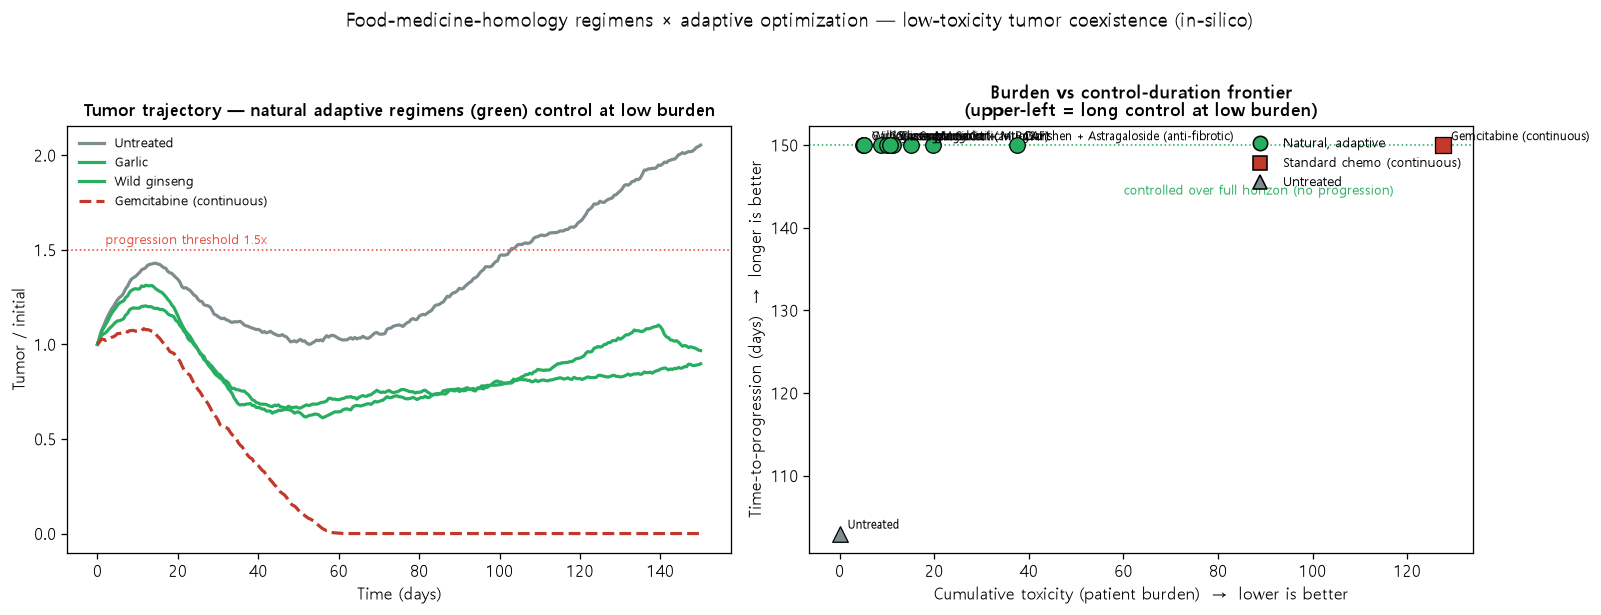
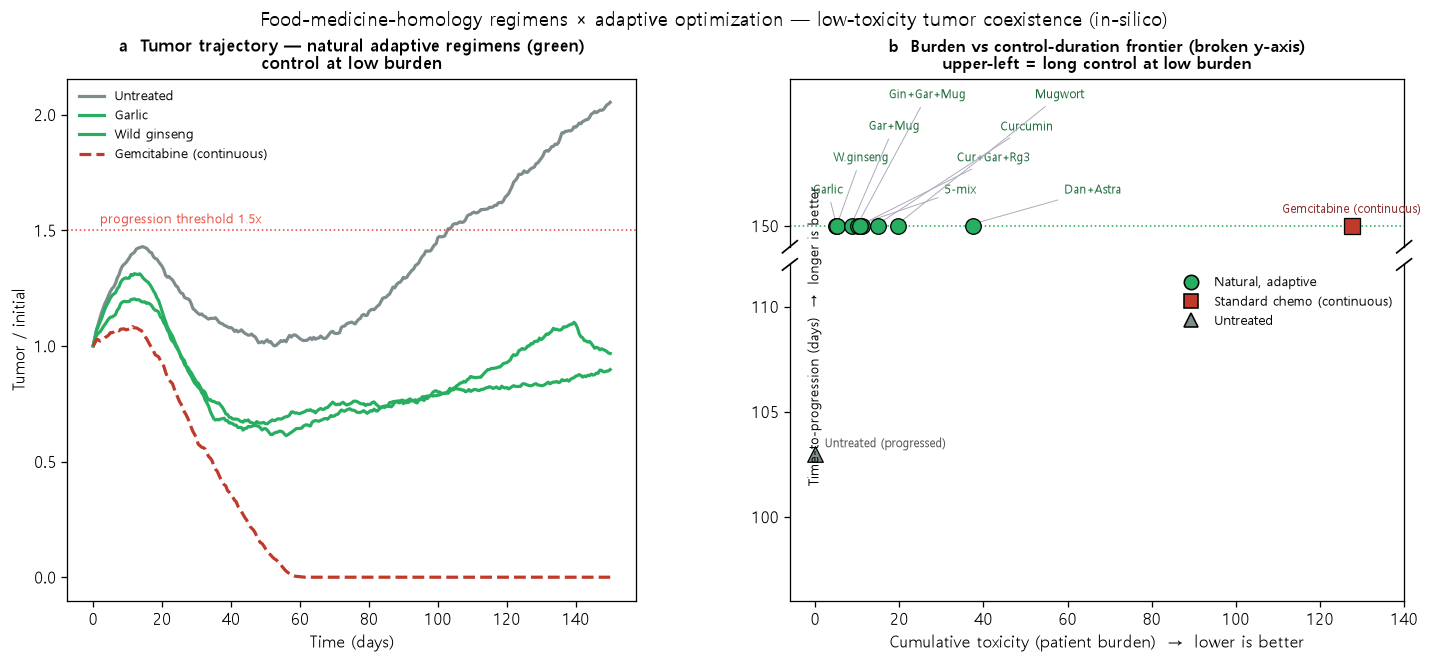
fig: redesign Fig 5 frontier with broken y-axis for readability
Panel B TTP-vs-toxicity points were all crammed at y=150 with overlapping
labels. Split into a broken y-axis (censored cluster ~150 vs Untreated ~103),
zoomed top band, abbreviated names on staggered leader lines, legend moved off
the data. Break marks are the standard diagonal symbol.

diff --git a/pipeline/optimize_natural.py b/pipeline/optimize_natural.py
@@ -89,9 +89,21 @@ def main():
     return results
 
 
+def _mk(typ):
+    return "o" if typ == "natural-adaptive" else ("s" if typ == "conventional" else "^")
+
+
 def _figure(results, n0):
-    fig, (axA, axB) = plt.subplots(1, 2, figsize=(14, 5.4))
-    # A: 대표 궤적 (무처치, 젬시타빈, 상위 자연물 2개)
+    from matplotlib import gridspec
+    from matplotlib.lines import Line2D
+    fig = plt.figure(figsize=(15, 5.9))
+    gs = gridspec.GridSpec(2, 2, width_ratios=[1, 1.08],
+                           height_ratios=[1.25, 2.5], hspace=0.07, wspace=0.26)
+    axA = fig.add_subplot(gs[:, 0])       # trajectory (spans both rows)
+    axT = fig.add_subplot(gs[0, 1])       # broken top: censored (TTP=150)
+    axB = fig.add_subplot(gs[1, 1], sharex=axT)   # broken bottom: Untreated
+
+    # ---- Panel A: representative trajectories ----
     nat = [r for r in results if r[1] == "natural-adaptive"]
     nat_sorted = sorted(nat, key=lambda r: -r[3]["control_score"])
     show = [r for r in results if r[0] == UNTREATED] + nat_sorted[:2] + \
@@ -103,26 +115,64 @@ def _figure(results, n0):
     axA.axhline(1.5, color="#E74C3C", ls=":", lw=1)
     axA.text(2, 1.53, "progression threshold 1.5x", fontsize=8, color="#E74C3C")
     axA.set_xlabel("Time (days)"); axA.set_ylabel("Tumor / initial")
-    axA.set_title("Tumor trajectory — natural adaptive regimens (green) control at low burden",
-                  fontsize=10.5, fontweight="bold")
+    axA.set_title("a  Tumor trajectory — natural adaptive regimens (green)\n"
+                  "control at low burden", fontsize=10.5, fontweight="bold")
     axA.legend(frameon=False, fontsize=8)
 
-    # B: 트레이드오프 프론티어 — TTP(통제 지속) vs 독성(부담).
+    # ---- Panel B: broken-axis frontier (top=censored cluster, bottom=Untreated) ----
     for name, typ, h, m, col in results:
-        mk = "o" if typ == "natural-adaptive" else ("s" if typ == "conventional" else "^")
-        axB.scatter(m["cum_toxicity"], m["ttp_days"], s=95, color=col,
-                    marker=mk, edgecolor="black", linewidth=0.8, zorder=3)
-        axB.annotate(name, (m["cum_toxicity"], m["ttp_days"]), fontsize=7.5,
-                     xytext=(5, 3), textcoords="offset points")
-    axB.axhline(DAYS, color="#27AE60", ls=":", lw=1)
-    axB.text(60, DAYS - 6, "controlled over full horizon (no progression)",
-             fontsize=8, color="#27AE60")
+        ax = axT if m["ttp_days"] >= DAYS - 1 else axB
+        ax.scatter(m["cum_toxicity"], m["ttp_days"], s=95, color=col,
+                   marker=_mk(typ), edgecolor="black", linewidth=0.8, zorder=4)
+    axT.set_ylim(149.4, 154.2); axB.set_ylim(96, 112)
+    axT.set_yticks([150]); axB.set_yticks([100, 105, 110])
+    axT.axhline(DAYS, color="#27AE60", ls=":", lw=1, zorder=1)
+
+    # staggered labels + leader lines for the censored natural cluster
+    SHORT = {"Garlic": "Garlic", "Wild ginseng": "W.ginseng",
+             "Garlic + Mugwort": "Gar+Mug",
+             "Ginseng + Garlic + Mugwort": "Gin+Gar+Mug",
+             "Curcumin + Garlic + Rg3": "Cur+Gar+Rg3",
+             "5-compound mix": "5-mix", "Curcumin": "Curcumin",
+             "Mugwort (anti-CAF)": "Mugwort",
+             "Danshen + Astragaloside (anti-fibrotic)": "Dan+Astra"}
+    nat_tox = sorted([r for r in results if r[3]["ttp_days"] >= DAYS - 1
+                      and r[1] == "natural-adaptive"],
+                     key=lambda r: r[3]["cum_toxicity"])
+    xslots = np.linspace(3, 66, len(nat_tox))
+    hts = [150.85, 151.75, 152.65, 153.55]
+    for i, (name, typ, h, m, col) in enumerate(nat_tox):
+        axT.annotate(SHORT.get(name, name), xy=(m["cum_toxicity"], 150.05),
+                     xytext=(xslots[i], hts[i % 4]), fontsize=7.3,
+                     ha="center", va="bottom", color="#1E6B3A",
+                     arrowprops=dict(arrowstyle="-", color="#AAB", lw=0.6))
+    for name, typ, h, m, col in results:      # gemcitabine + untreated
+        if typ == "conventional":
+            axT.annotate(name, xy=(m["cum_toxicity"], 150), xytext=(0, 8),
+                         textcoords="offset points", ha="center",
+                         fontsize=7.5, color="#8B2E2E")
+        elif typ == "none":
+            axB.annotate(f"{name} (progressed)", xy=(m["cum_toxicity"], m["ttp_days"]),
+                         xytext=(6, 4), textcoords="offset points",
+                         fontsize=7.5, color="#555")
+
+    # broken-axis diagonal marks
+    axT.spines["bottom"].set_visible(False); axB.spines["top"].set_visible(False)
+    axT.tick_params(bottom=False, labelbottom=False)
+    dd = .012
+    kw = dict(color="k", clip_on=False, lw=1.1)
+    axT.plot((-dd, +dd), (-dd * 3, +dd * 3), transform=axT.transAxes, **kw)
+    axT.plot((1 - dd, 1 + dd), (-dd * 3, +dd * 3), transform=axT.transAxes, **kw)
+    axB.plot((-dd, +dd), (1 - dd * 1.4, 1 + dd * 1.4), transform=axB.transAxes, **kw)
+    axB.plot((1 - dd, 1 + dd), (1 - dd * 1.4, 1 + dd * 1.4), transform=axB.transAxes, **kw)
+
+    axT.set_xlim(-6, 140); axB.set_xlim(-6, 140)
     axB.set_xlabel("Cumulative toxicity (patient burden)  →  lower is better")
-    axB.set_ylabel("Time-to-progression (days)  →  longer is better")
-    axB.set_title("Burden vs control-duration frontier\n"
-                  "(upper-left = long control at low burden)",
-                  fontsize=11, fontweight="bold")
-    from matplotlib.lines import Line2D
+    fig.text(0.558, 0.5, "Time-to-progression (days)  →  longer is better",
+             rotation=90, va="center", ha="center", fontsize=9)
+    axT.set_title("b  Burden vs control-duration frontier (broken y-axis)\n"
+                  "upper-left = long control at low burden", fontsize=10,
+                  fontweight="bold")
     axB.legend(handles=[
         Line2D([0], [0], marker="o", color="w", markerfacecolor="#27AE60",
                markeredgecolor="k", markersize=9, label="Natural, adaptive"),